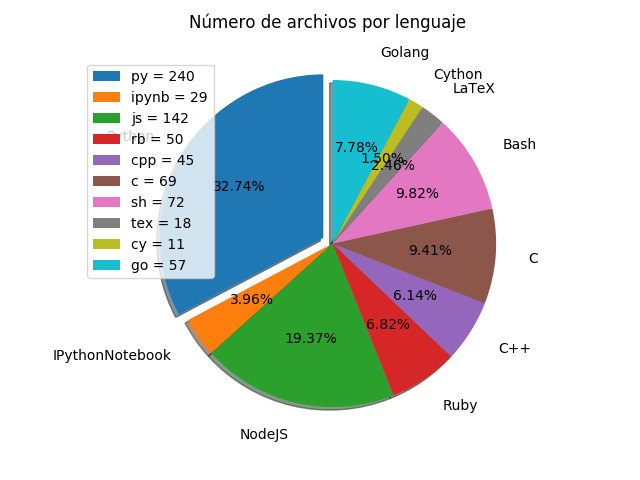
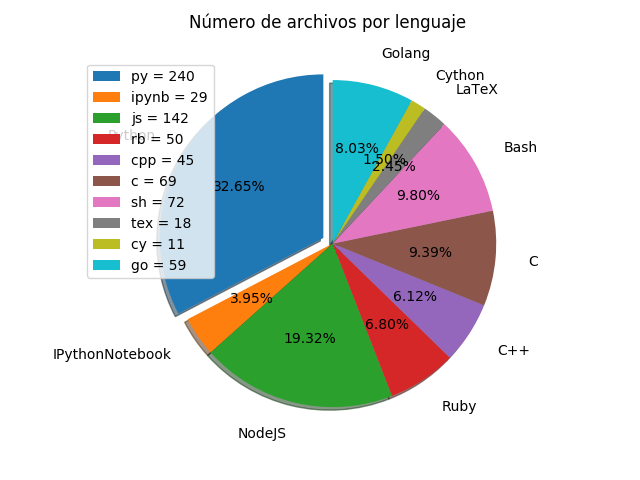
Inline and anonym functions examples with Golang added.

diff --git a/backend/src/tipos/funciones/lambda/lambda.go b/backend/src/tipos/funciones/lambda/lambda.go
@@ -1,0 +1,51 @@
+package main
+
+// Golang soporta funciones anónimas que
+// pueden ser definidas, instanciadas e
+// invocadas de diferentes formas.
+
+import (
+    "fmt"
+)
+
+// Para aceptar una función como argumento
+//   debemos declararla como tipo, cuyo
+//   nombre declararemos como tipo del argumento.
+type convert func(int) string
+
+// Pasar una función en línea
+//   como argumento a una función.
+func quote(fn convert) string {
+	return fmt.Sprintf("%q", fn(123))
+}
+
+// Debemos tener en cuenta que los tipos
+//  de esta función deben coincidir con
+//  los declarados en el tipo 'convert'.
+func value(x int) string {
+	return fmt.Sprintf("%v", x)
+}
+
+
+func main() {
+
+    // Llamar a una función anónima en línea
+    resultado := func(a, b int, z float64) bool {
+    	return a*b == int(z)         // true
+    }(2, 4, 8.01)
+
+    fmt.Printf("%v\n", resultado)
+
+    // Instanciar una función anónima en una variable
+    suma := func(x, y int) int { return x + y }
+    fmt.Printf("%v\n", suma(5, 10))  // 15
+
+    // Pasar una función a una función como callback
+    fmt.Printf("%s\n", quote(value))  // "123"
+}
+
+/* Fuentes:
+https://golang.org/ref/spec#Function_literals
+https://play.golang.org/p/XNMtrDUDS0
+https://stackoverflow.com/questions/11766320/does-go-have-lambda-expressions-or-anything-similar
+*/

diff --git a/backend/src/basico/004-flujo_de_ejecucion/defer/defer.go b/backend/src/basico/004-flujo_de_ejecucion/defer/defer.go
@@ -1,0 +1,19 @@
+package main
+
+/* Lo que realiza una sentencia 'defer' es
+    apilar las llamadas en una pila que
+    es ejecutada cuando la función actual vuelve.
+*/
+
+import (
+    "fmt"
+)
+
+func main() {
+    for i := 0; i <= 10; i++ {
+        // Usando defer cada llamada se va apilando
+        //  en una pila LIFO, por lo que este bucle
+        //  aparece en orden inverso en la salida.
+        defer fmt.Printf("%d\n", i)
+    }
+}

diff --git a/backend/src/tipos/funciones/lambda/lambda.cpp b/backend/src/tipos/funciones/lambda/lambda.cpp
@@ -7,7 +7,7 @@ using namespace std;
 
 int main() {
 
-    vector<int> nums { 1, 2, 3, 4, 5, 6, 7};
+    vector<int> nums {1, 2, 3, 4, 5, 6, 7};
     int x = 4;
     // Por cada número en el vector creamos una función
     // que indicará si es mayor que x

diff --git a/backend/src/tipos/punteros/pointers.go b/backend/src/tipos/punteros/pointers.go
@@ -1,6 +1,8 @@
 // Go soporta punteros, los cuales nos permiten pasar referencias
 // de valores y datos entre las funciones de nuestro programa.
 
+// A diferencia de C, Golang no soporta aritmética de punteros.
+
 package main
 
 import "fmt"

diff --git a/backend/src/tipos/README.md b/backend/src/tipos/README.md
@@ -44,7 +44,7 @@ ______________________
 
 ### [Funciones](https://github.com/mondeja/fullstack/tree/master/backend/src/tipos/funciones)
 - [Decoradores](https://github.com/mondeja/fullstack/tree/master/backend/src/tipos/funciones/decoradores) (py, js, rb, go)
-- [Lambda](https://github.com/mondeja/fullstack/tree/master/backend/src/tipos/funciones/lambda) (py, rb, cpp)
+- [Lambda](https://github.com/mondeja/fullstack/tree/master/backend/src/tipos/funciones/lambda) (py, rb, go, cpp)
 
 _________
 
